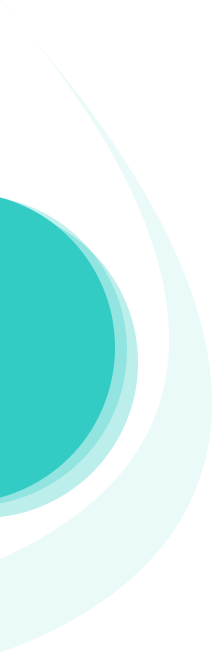
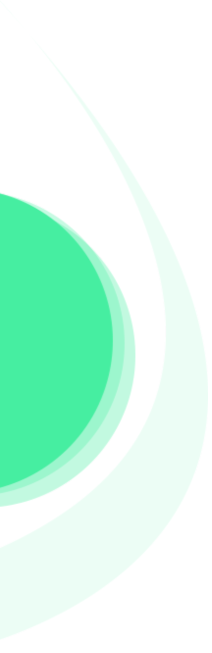
pruebo imagen

Changed region(s): [[0.0, 0.2757, 0.6509, 0.7963]]

diff --git a/assets/css/templatemo-seo-dream.css b/assets/css/templatemo-seo-dream.css
@@ -864,7 +864,7 @@ Banner Style
   background-repeat: no-repeat;
   background-position: center center;
   background-size: cover;
-  padding: 205px 0px 150px 0px;
+  padding: 330px 0px 280px 0px;
   position: relative;
   overflow: hidden;
 }
@@ -883,7 +883,7 @@ Banner Style
 
 .main-banner:before {
   content: '';
-  background-image: url(../images/fondo-derecha-compu.png);
+  background-image: url(../images/banner-dec-right-2.png);
   background-repeat: no-repeat;
   position: absolute;
   right: 0;
